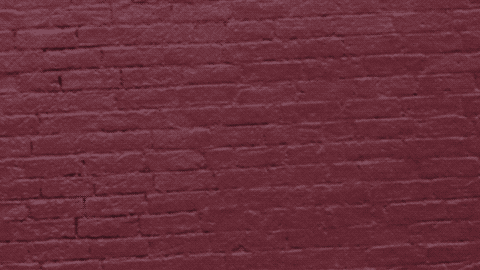
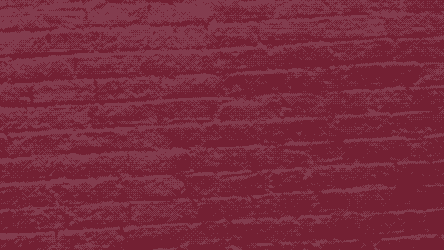
Made comments available on all posts (Comments now defer). Reduced header image file size.

diff --git a/_layouts/post.html b/_layouts/post.html
@@ -28,10 +28,6 @@ layout: default
 <script src="https://cdn.jsdelivr.net/npm/mermaid@9.1.3/dist/mermaid.min.js"></script>
 {% endif %}
 
-{% if page.comments %}
-<script type="text/javascript" src="https://cdn.jsdelivr.net/npm/gitalk@1.7.2/dist/gitalk.min.js" crossorigin="anonymous"></script>
-{% endif %}
-
 
 <!-- Post Header -->
 {% include intro-header.html type='post' %}
@@ -81,13 +77,10 @@ layout: default
         </ul>
         <hr style="visibility: hidden;">
 
-        {%if page.comments %}
-
-          {% if site.comment.provider %}
+        {% if site.comment.provider %}
             {% include comments.html %}
-          {% endif %}
-
         {% endif %}
+
 
       </div>
 

diff --git a/_includes/comments.html b/_includes/comments.html
@@ -1,4 +1,6 @@
 {% if site.comment.provider == "gitalk" %}
+<script type="text/javascript" src="https://cdn.jsdelivr.net/npm/gitalk@1.7.2/dist/gitalk.min.js" crossorigin="anonymous"></script>
+
 
     <!----------------- Gitalk ----------------->
     <style>
